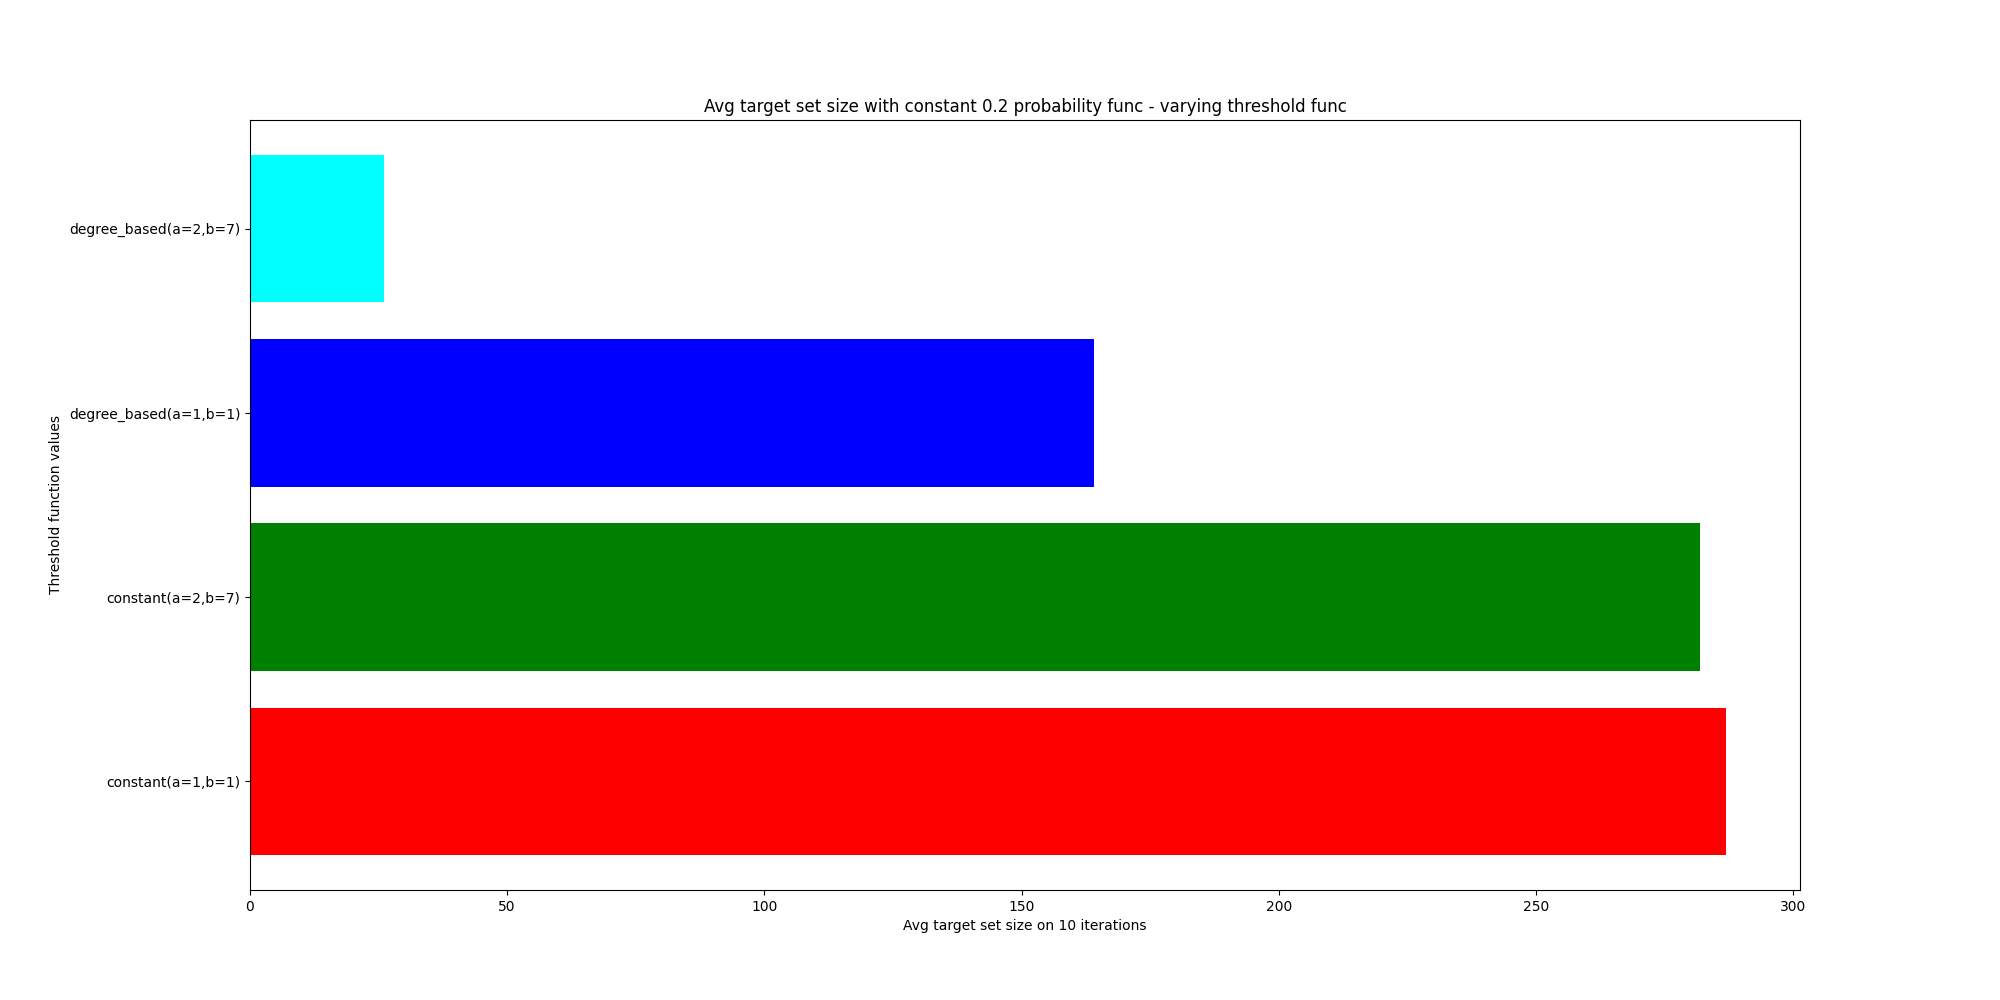
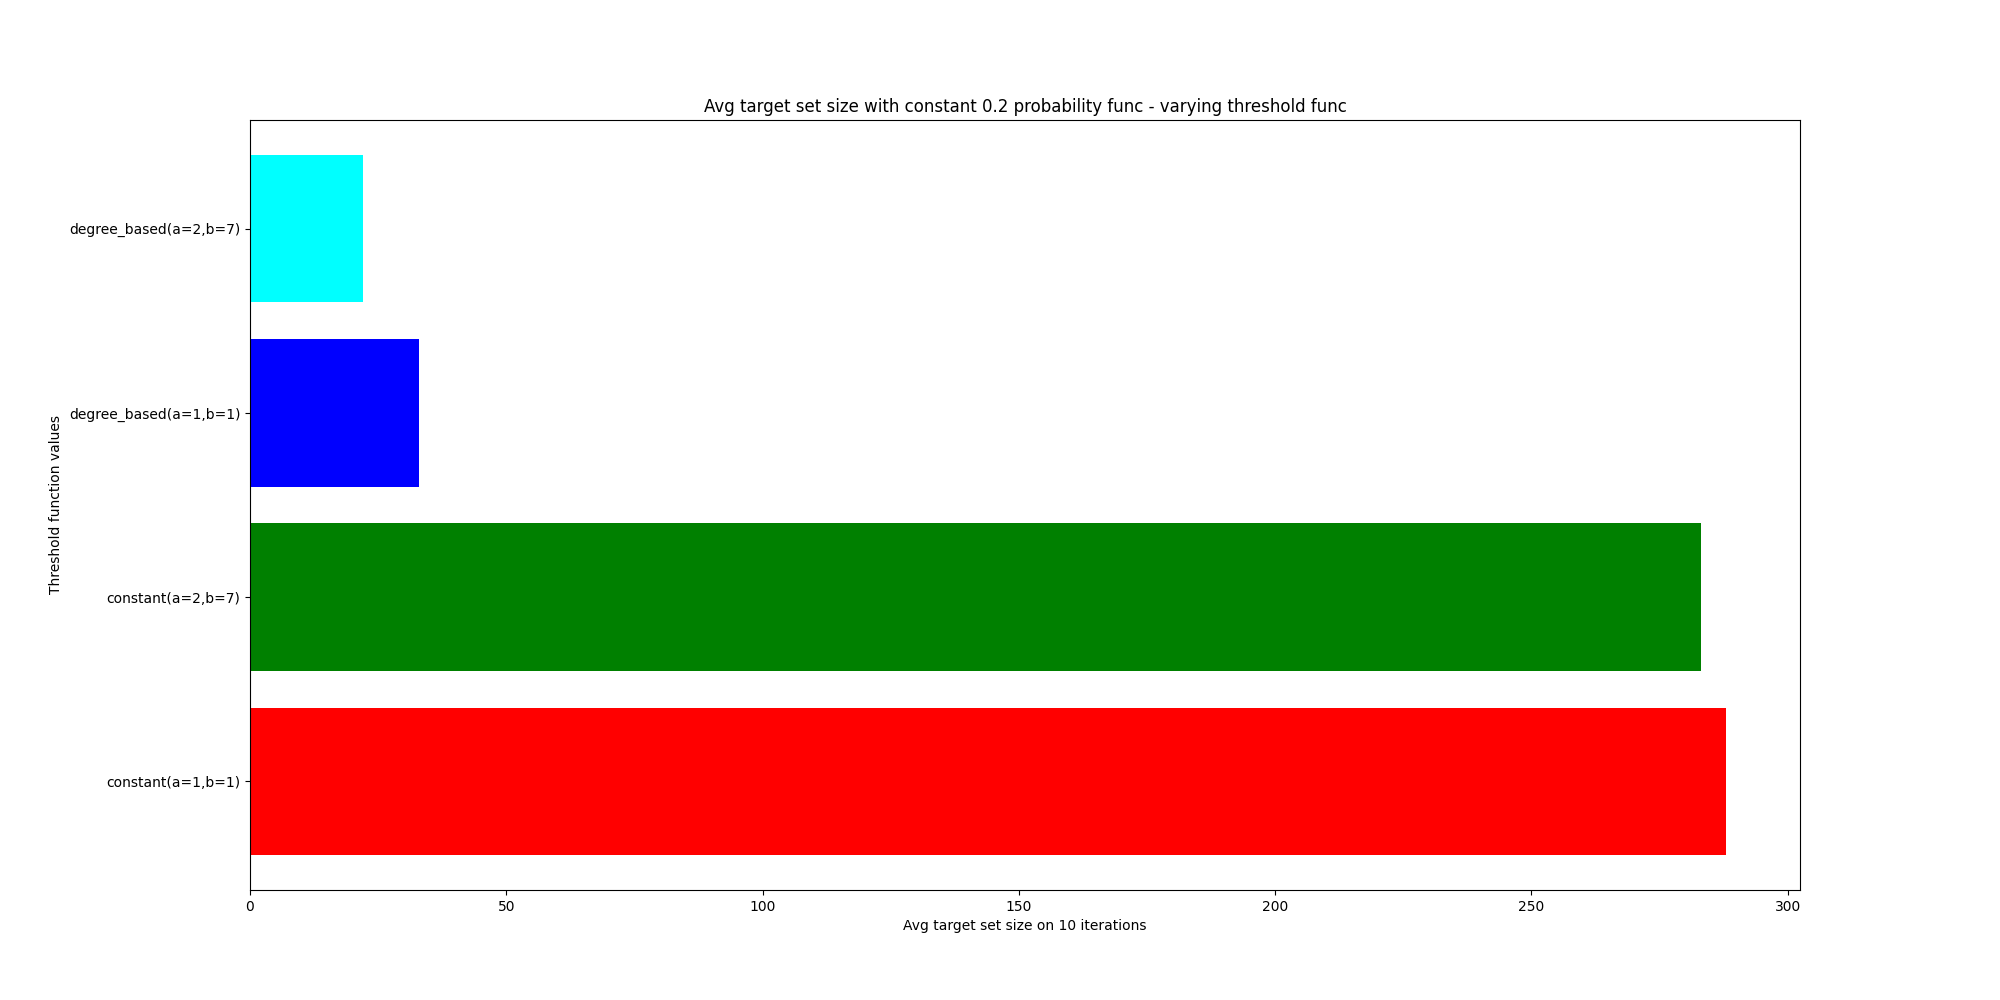
tss tests on twitch dataset graphics and output

diff --git a/TSS_test_and_graphics_generation.py b/TSS_test_and_graphics_generation.py
@@ -3,6 +3,7 @@ import sys
 import os
 import matplotlib.pyplot as plt
 import copy
+import time
 
 from TSS_utils import *
 
@@ -12,11 +13,11 @@ if len(sys.argv) > 1:
 else:
     sys.exit("Dataset path has to be specified")
 
-datasetName = os.path.basename(os.path.normpath(datasetPath))
-datasetName = os.path.splitext(datasetName)[0]
-
 #datasetPath = './Datasets/twitch/ENGB/musae_ENGB_edges.csv'
 #datasetPath = './Datasets/facebook_large/musae_facebook_edges.csv'
+
+datasetName = os.path.basename(os.path.normpath(datasetPath))
+datasetName = os.path.splitext(datasetName)[0]
 
 G = snap.LoadEdgeList(snap.TUNGraph, datasetPath, 0, 1, ',')
 print("\nOriginal graph info:")
@@ -68,13 +69,16 @@ for prob_func in prob_functions:
         if j == 1: j = 0
         else: j += 1
 
+        print("\n*TSS execution...(10 iterations)")
+        startTime = time.time()
         for k in range(0,10):
             node_threshold_mapping = copy.deepcopy(node_threshold_mapping_original)
             S = target_set_selection(G, node_threshold_mapping)
             size_S.append(len(S))
         
         avg_S_size = sum(size_S)/len(size_S)
-        print("Average target set size on 10 iterations for TEST {} = {}".format(count, math.ceil(avg_S_size)))
+        print(f"Execution Time: {round(time.time()-startTime, 2)} s")
+        print("Average target set size for TEST {} = {}".format(count, math.ceil(avg_S_size)))
         print("\n***************************************************")
         print("\n")
         testsInfo[z]["avg_target_set_size"] = math.ceil(avg_S_size)

diff --git a/TSS_utils.py b/TSS_utils.py
@@ -78,8 +78,7 @@ def target_set_selection(graph, node_threshold_mapping):
     node_id_to_delete = 0
 
     while graph.GetNodes() > 0:
-        U = graph.Nodes()
-        for v in U:
+        for v in graph.Nodes():
             if node_threshold_mapping[v.GetId()] == 0: #Case1
                 node_id_to_delete = v.GetId()
                 _,NodeVec = graph.GetNodesAtHop(v.GetId(), 1, False) #get node's neighborhood
@@ -99,13 +98,14 @@ def target_set_selection(graph, node_threshold_mapping):
                 else: #Case3
                     max_ratio_value = -1
                     max_node_id = -1
-                    for u in U:
+                    for u in graph.Nodes():
                         denominator = u.GetDeg()*(u.GetDeg()+1)
                         if denominator == 0: ratio = 0
                         else: ratio = node_threshold_mapping[u.GetId()] / denominator
                         if ratio > max_ratio_value:
                             max_node_id = u.GetId()
                             max_ratio_value = ratio
+
                     node_id_to_delete = max_node_id
                     break
 
